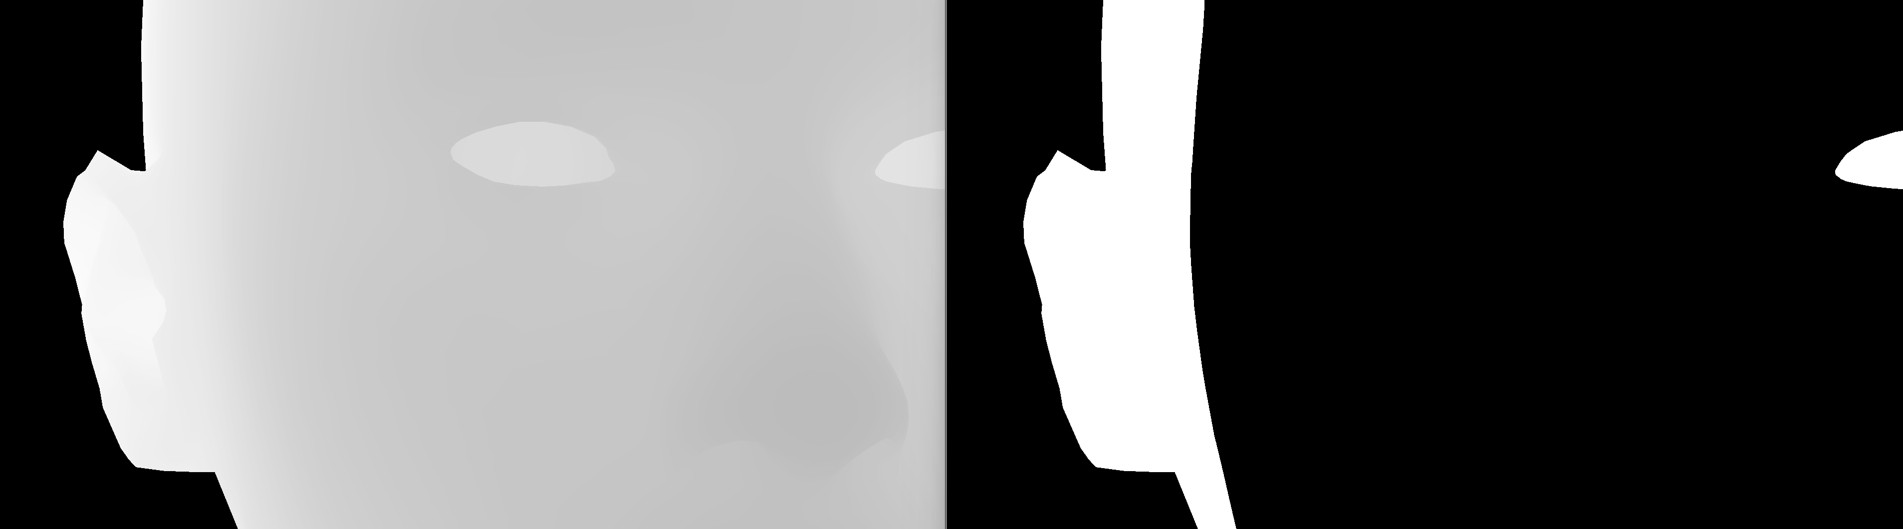
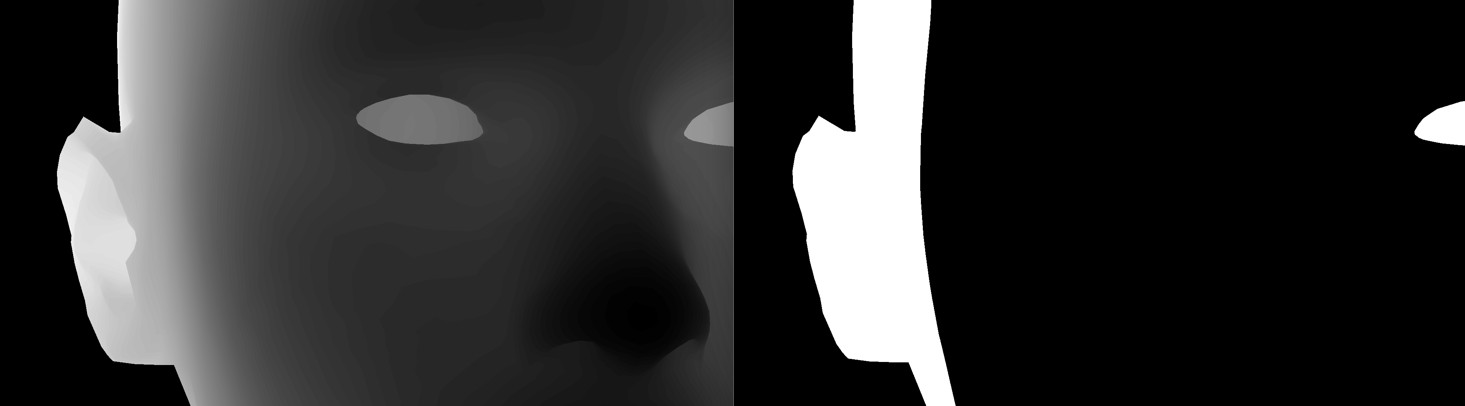
improving resolution of input depth visualization

diff --git a/main/main_app.cpp b/main/main_app.cpp
@@ -87,11 +87,14 @@ int main(int argc, char* argv[]) {
         cv::imwrite(filename, overall_mask);
         std::cout << "[DONE] Focus sweep complete and merged => " <<filename <<std::endl;
 
-        // Input depth file normalized into 8bits grey format for visualization
+        // Input depth file normalized into 8bits grey format just for visualization
         filename = filename_no_ext + "_input_greyed.png";
-        auto greyed = 64 * depthMat;
+        cv::Mat greyed = cv::max(depthMat - sensor.getDepthMin(), 0);
+        double minVal, maxVal;
+        cv::Point minLoc, maxLoc;
+        cv::minMaxLoc(greyed, &minVal, &maxVal, &minLoc, &maxLoc);
         cv::Mat normalized;
-        depthMat.convertTo(normalized, CV_8U, 255.0 / sensor.getDepthMax());
+        greyed.convertTo(normalized, CV_8U, 255.0 / maxVal);
         cv::imwrite(filename, normalized);
     }
     catch (const std::exception& e) {
